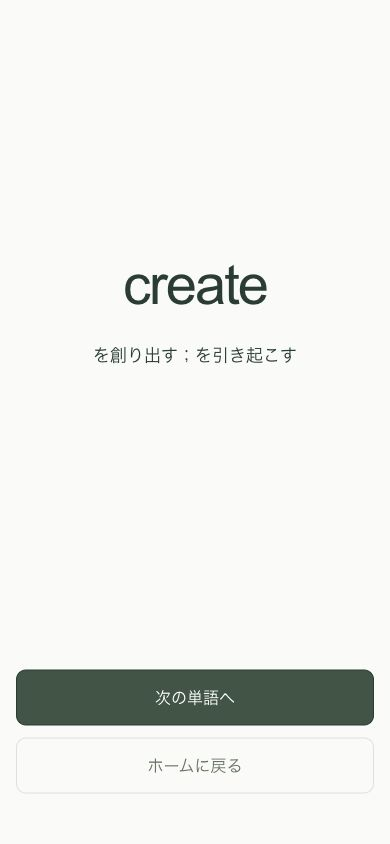
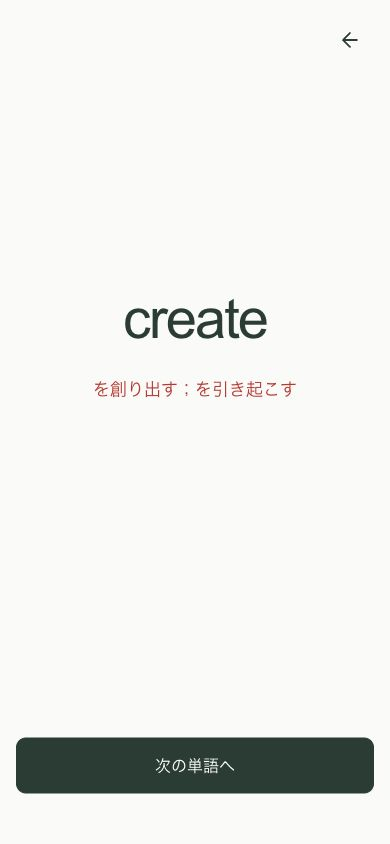
ホームに戻る操作を右上の矢印にし、意味を赤文字にする

Changed region(s): [[0.0308, 0.7701, 0.9846, 0.955], [0.2462, 0.3081, 0.7692, 0.4929], [0.8615, 0.0308, 0.9231, 0.0616]]

diff --git a/src/app/globals.css b/src/app/globals.css
@@ -20,7 +20,8 @@ button:focus-visible, a:focus-visible { outline: 3px solid #8fa879; outline-offs
 .study-content { flex: 1; width: 100%; display: flex; flex-direction: column; align-items: center; justify-content: center; padding: 24px 0; text-align: center; min-height: 230px; }
 .english-word { max-width: 100%; margin: 0; font-size: 64px; font-size: clamp(28px, calc(160cqw / var(--word-length, 6)), 88px); font-weight: 500; letter-spacing: -.035em; line-height: 1.15; overflow-wrap: anywhere; }
 .meaning-area { width: 100%; min-height: 96px; margin-top: 28px; }
-.meaning { margin: 0; font-size: 20px; line-height: 1.8; overflow-wrap: anywhere; }
+.meaning { margin: 0; color: #c62828; font-size: 20px; line-height: 1.8; overflow-wrap: anywhere; }
+.home-link { position: fixed; top: max(16px, env(safe-area-inset-top)); right: max(16px, env(safe-area-inset-right)); z-index: 1; display: grid; place-items: center; width: 48px; height: 48px; border-radius: 50%; color: var(--ink); }
 .study-controls { width: min(360px, 100%); margin: 0 auto; display: flex; flex-direction: column; gap: 12px; }
 .study-button, .home-button { display: flex; align-items: center; justify-content: center; width: 100%; min-height: 56px; padding: 14px 16px; border-radius: 10px; font-size: 16px; cursor: pointer; }
 .study-button { background: var(--ink); color: #fff; border: 1px solid var(--ink); }
@@ -32,6 +33,7 @@ button:focus-visible, a:focus-visible { outline: 3px solid #8fa879; outline-offs
   .range-option:hover { background: #f0f4ed; }
   .study-button:hover { background: #3c5544; }
   .home-button:hover { background: #eff3ec; }
+  .home-link:hover { background: #eff3ec; }
 }
 @media (max-width: 600px) {
   .english-word { font-size: clamp(26px, calc(160cqw / var(--word-length, 6)), 56px); }

diff --git a/src/components/study-session.tsx b/src/components/study-session.tsx
@@ -10,7 +10,13 @@ export function StudySession({ words }: { words: StudyWord[] }) {
   const actionLabel = state.complete ? "もう一度学習する" : !state.revealed ? "意味を見る" : state.index + 1 === words.length ? "完了する" : "次の単語へ";
 
   return (
-    <main className="study-screen" aria-label="英単語の学習">
+    <>
+      <Link className="home-link" href="/" aria-label="ホームに戻る" title="ホームに戻る">
+        <svg width="24" height="24" viewBox="0 0 24 24" fill="none" aria-hidden="true">
+          <path d="M19 12H5m7-7-7 7 7 7" stroke="currentColor" strokeWidth="1.8" strokeLinecap="round" strokeLinejoin="round" />
+        </svg>
+      </Link>
+      <main className="study-screen" aria-label="英単語の学習">
       <div className="study-content" id="word-content" aria-live="polite" aria-atomic="true">
         {state.complete ? <h1 className="completion-title">完了</h1> : <>
           <h1 className="english-word" lang="en" style={{ "--word-length": current.word.length } as CSSProperties}>{current.word}</h1>
@@ -23,8 +29,8 @@ export function StudySession({ words }: { words: StudyWord[] }) {
         <button type="button" className="study-button" aria-controls="word-content" onClick={() => setState((previous) => advanceStudy(previous, words.length))}>
           {actionLabel}
         </button>
-        <Link className="home-button" href="/">ホームに戻る</Link>
       </div>
-    </main>
+      </main>
+    </>
   );
 }
